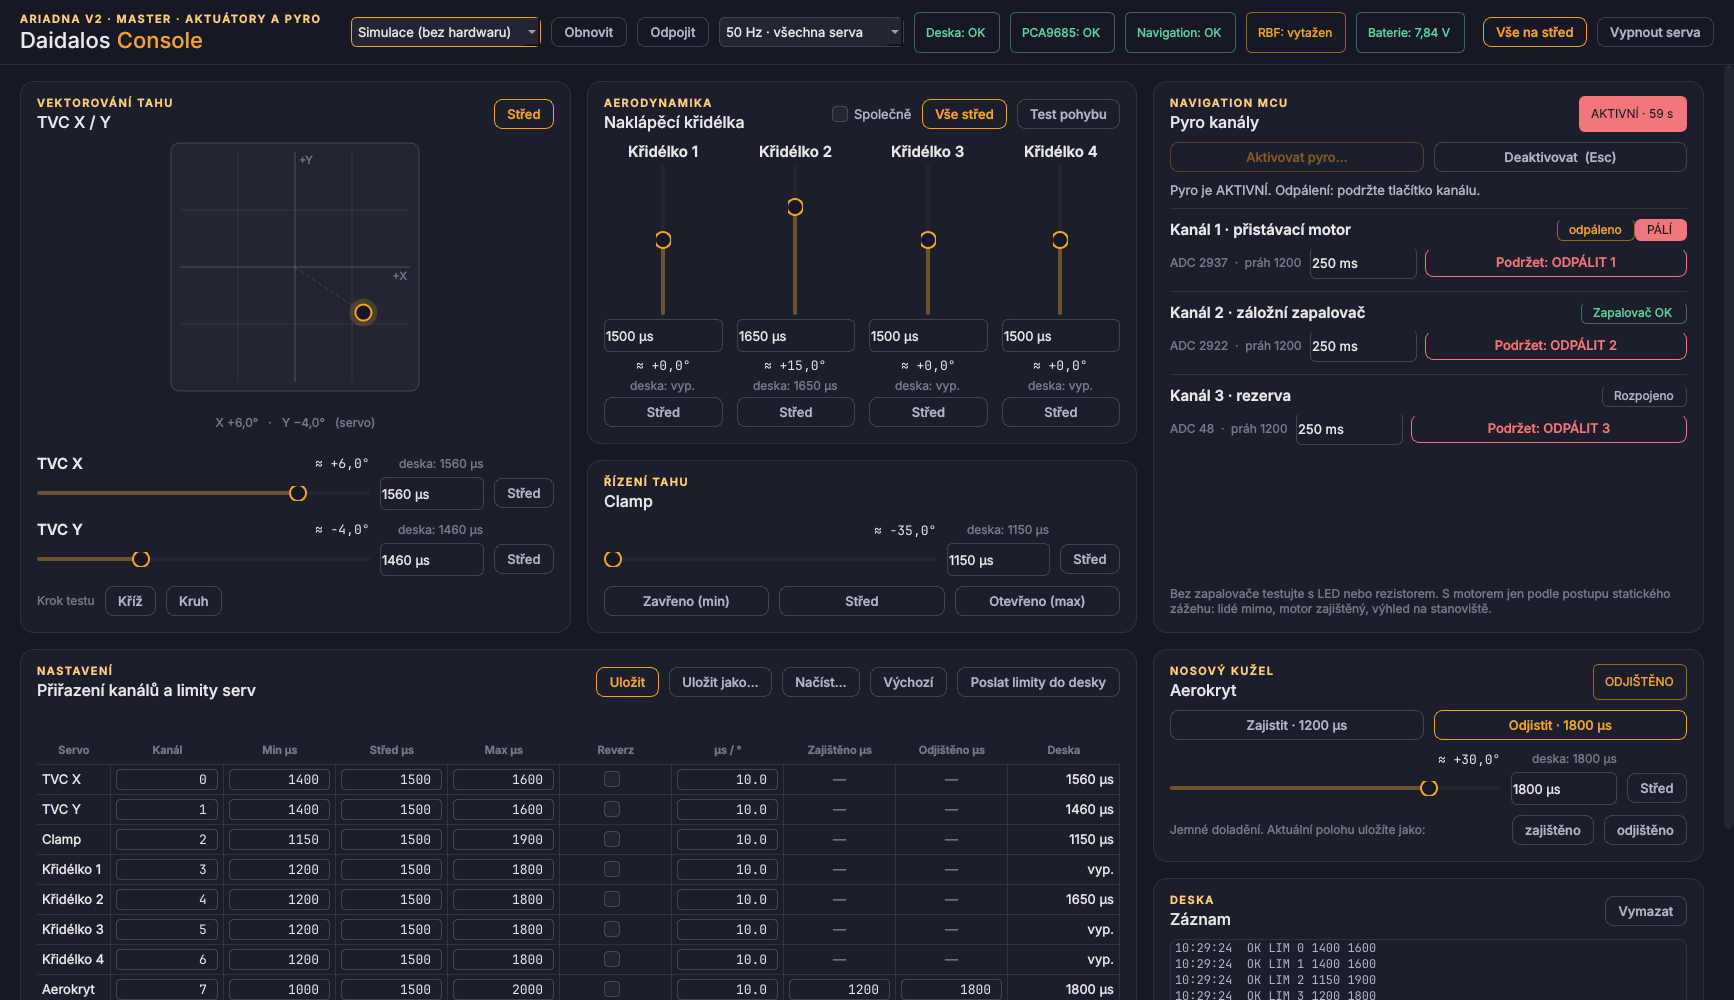
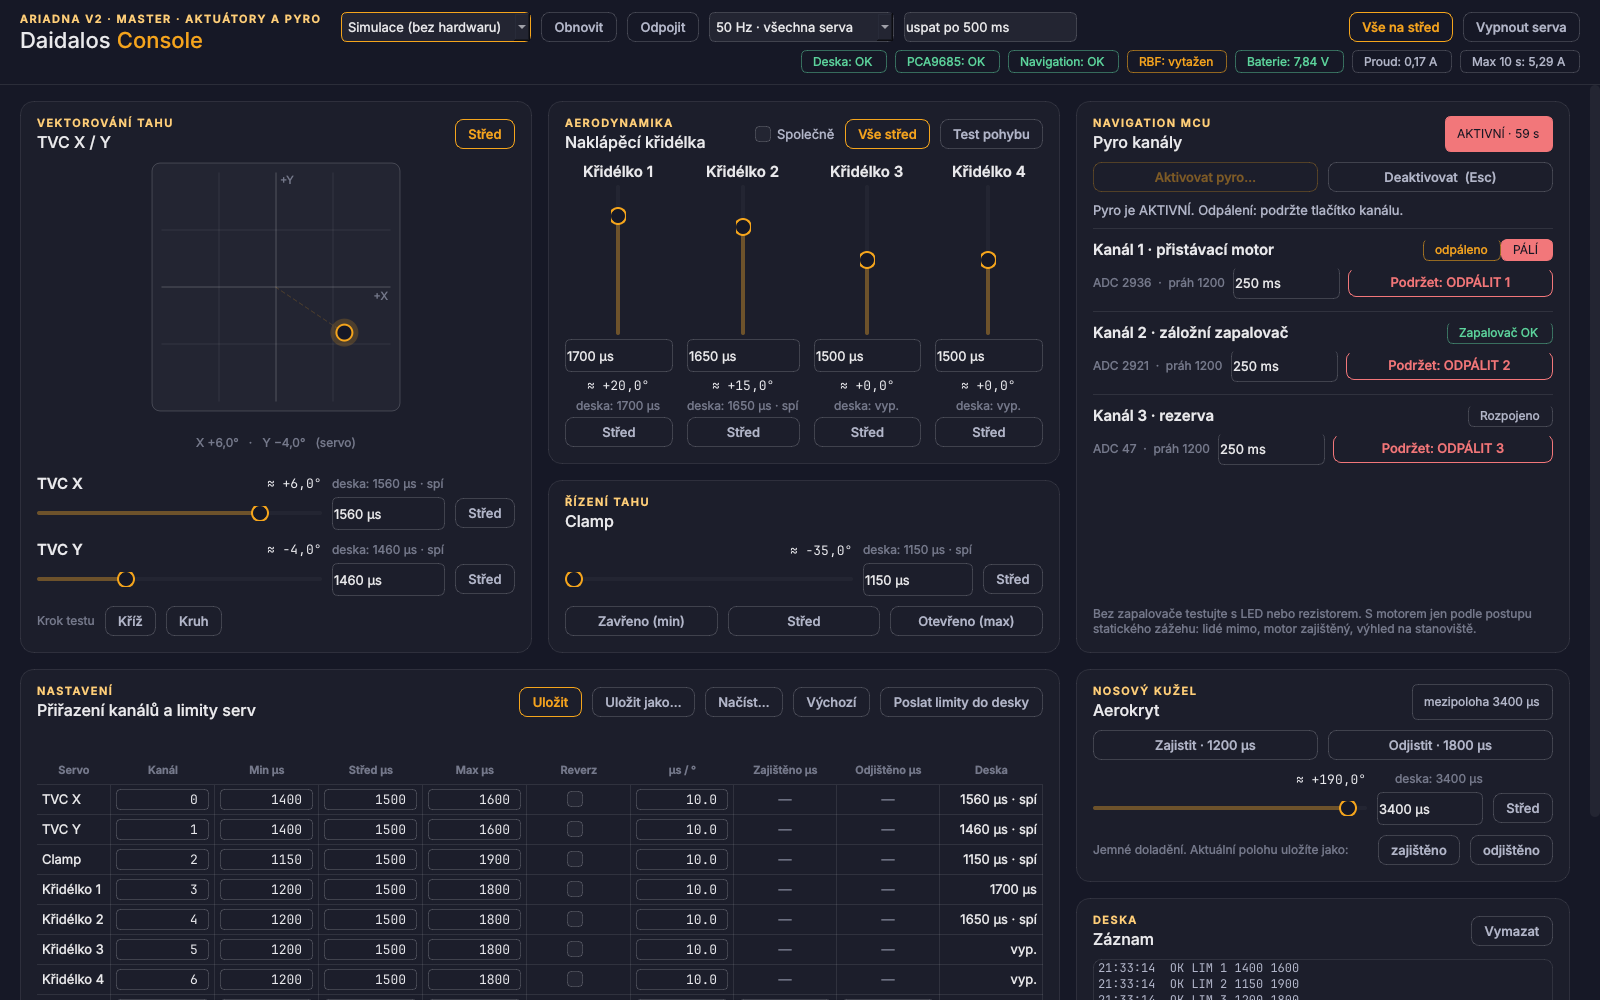
Actuator Console: idle-off servos, 3500 us pulses, current draw
- A channel whose command has not changed for 500 ms (IDLE <ms>, 0 =
  never, set from the GUI's top bar and saved in the config) stops its
  pulse; the next SET wakes it. Telemetry reports which channels are
  actually pulsing, and the GUI marks sleeping ones "spí".
- Pulse window widened to 500..3500 us for wide-range servos. The board
  keeps a pulse at least 200 us shorter than the PWM period, so 333/339 Hz
  cap it near 2800/2750 us; the GUI warns which servos that cuts.
- ACS712 current sampled every ms: 100 ms mean and 10 s peak in the
  telemetry, shown in the GUI's top bar.

Claude-Session: https://claude.ai/code/session_01Dwbo7751Jxhhc5P4edmqFL

diff --git a/Ariadna_V2/Examples/Actuator_Console/gui/actuator_gui.py b/Ariadna_V2/Examples/Actuator_Console/gui/actuator_gui.py
@@ -46,7 +46,8 @@ APP_NAME = "Daidalos · Aktuátory a pyro"
 HERE = os.path.dirname(os.path.abspath(__file__))
 DEFAULT_CONFIG = os.path.join(HERE, "actuator_config.json")
 N_CH = 16
-ABS_US_MIN, ABS_US_MAX = 500, 2500
+ABS_US_MIN, ABS_US_MAX = 500, 3500   # same as the board; wide-range servos go to 3500
+PERIOD_GAP_US = 200                    # the board keeps a pulse this far below the PWM period
 
 # ---------------------------------------------------------------------------
 #  VoltinoLabs design tokens (artifact "VoltinoLabs", tokens.json)
@@ -247,18 +248,20 @@ class AppConfig:
     pwm_hz: int = 50
     pulse_ms: list[int] = field(default_factory=lambda: [250, 250, 250])
     port: str = ""
+    idle_ms: int = 500          # servo pulse stops after this long without a change, 0 = never
 
     def servo(self, key: str) -> ServoCfg:
         return next(s for s in self.servos if s.key == key)
 
     def to_json(self) -> dict:
-        return {"version": 1, "pwm_hz": self.pwm_hz, "pulse_ms": self.pulse_ms,
+        return {"version": 1, "pwm_hz": self.pwm_hz, "pulse_ms": self.pulse_ms, "idle_ms": self.idle_ms,
                 "port": self.port, "servos": [asdict(s) for s in self.servos]}
 
     @classmethod
     def from_json(cls, d: dict) -> "AppConfig":
         cfg = cls()
         cfg.pwm_hz = int(d.get("pwm_hz", 50))
+        cfg.idle_ms = max(0, min(60000, int(d.get("idle_ms", 500))))
         pm = list(d.get("pulse_ms", []))
         cfg.pulse_ms = [max(20, min(1000, int(x))) for x in (pm + [250, 250, 250])[:3]]
         cfg.port = d.get("port", "")
@@ -310,6 +313,13 @@ class SimBoard:
         self.last_rx = time.monotonic()
         self.next_tlm = 0.0
         self.rbf = 1
+        self.idle_ms = 500
+        self.moved = [0.0] * N_CH
+        self.awake = [False] * N_CH
+        self.amps_hist: list[tuple[float, float]] = []
+
+    def max_us(self) -> int:
+        return int(min(ABS_US_MAX, 1e6 / self.hz - PERIOD_GAP_US))
 
     def ms(self) -> int:
         return int((time.monotonic() - self.t0) * 1000)
@@ -330,7 +340,11 @@ class SimBoard:
             self.q.put("# simulated board (--demo): no hardware is driven")
         elif c == "SET" and len(p) == 3:
             ch = int(p[1])
-            self.us[ch] = max(self.lo[ch], min(self.hi[ch], int(p[2])))
+            self.us[ch] = max(self.lo[ch], min(self.hi[ch], self.max_us(), int(p[2])))
+            self.awake[ch], self.moved[ch] = True, now
+        elif c == "IDLE" and len(p) == 2:
+            self.idle_ms = max(0, min(60000, int(p[1])))
+            self.q.put(f"OK IDLE {self.idle_ms}")
         elif c == "OFF":
             if p[1].upper().startswith("A"):
                 self.us = [0] * N_CH
@@ -345,6 +359,7 @@ class SimBoard:
             self.q.put(f"OK LIM {ch} {lo} {hi}")
         elif c == "PWM":
             self.hz = int(p[1])
+            self.us = [min(u, self.max_us()) for u in self.us]
             self.q.put(f"OK PWM {self.hz}")
         elif c == "ARM":
             if not self.rbf:
@@ -375,12 +390,25 @@ class SimBoard:
         if self.armed_until and now - self.last_rx > 1.5:
             self.armed_until, self.fire_ch = 0, -1
             self.q.put("# GUI silent - pyros disarmed, servos hold")
+        on = 0
+        moving = 0
+        for ch in range(N_CH):
+            if self.awake[ch] and self.us[ch] and self.idle_ms and now - self.moved[ch] >= self.idle_ms / 1000:
+                self.awake[ch] = False
+            if self.awake[ch] and self.us[ch]:
+                on |= 1 << ch
+                moving += now - self.moved[ch] < 0.3
         if now >= self.next_tlm:
             self.next_tlm = now + 0.1
+            # a made-up servo rail: 0.15 A idle board, 0.12 A per held servo, 0.9 A per moving one
+            amps = 0.15 + 0.12 * bin(on).count("1") + 0.9 * moving + 0.02 * ((now * 53) % 3)
+            self.amps_hist = [(tt, a) for tt, a in self.amps_hist if now - tt < 10] + [(now, amps)]
             armed = 1 if (self.armed_until > now or self.fire_ch >= 0) else 0
             left = max(0.0, self.armed_until - now) if armed else 0.0
             noise = int((now * 37) % 9)
             t = {"t": self.ms(), "pca": 1, "hz": self.hz, "rbf": self.rbf, "vbat": 7.84,
+                 "i": round(amps, 2), "imax": round(max(a for _, a in self.amps_hist), 2),
+                 "idle": self.idle_ms, "maxus": self.max_us(), "on": on,
                  "us": self.us, "nav": 1, "arm": armed, "arm_left": round(left, 1),
                  "cont": [2930 + noise, 2915 + noise, 41 + noise], "thr": 1200, "cmask": 3,
                  "fired": self.fired, "firing": (1 << self.fire_ch) if self.fire_ch >= 0 else 0,
@@ -788,8 +816,13 @@ class AxisControl(QtWidgets.QWidget):
     def _readout(self, us: int) -> None:
         self.deg.setText(f"≈ {cz(self.cfg.deg(us))}°")
 
-    def set_board(self, us: int | None) -> None:
-        txt = "deska: —" if us is None else ("deska: vyp." if us == 0 else f"deska: {us} µs")
+    def set_board(self, us: int | None, awake: bool = True) -> None:
+        if us is None:
+            txt = "deska: —"
+        elif us == 0:
+            txt = "deska: vyp."
+        else:
+            txt = f"deska: {us} µs" + ("" if awake else " · spí")
         if self.board.text() != txt:
             self.board.setText(txt)
 
@@ -942,6 +975,7 @@ class MainWindow(QtWidgets.QMainWindow):
             for k, v in asdict(s_new).items():
                 setattr(s_old, k, v)
         self.cfg.pwm_hz, self.cfg.pulse_ms = new.pwm_hz, new.pulse_ms
+        self.idle_spin.setValue(new.idle_ms)
         self._fill_config_table()
         for s in self.cfg.servos:
             self._cfg_changed(s, send_pos=False)
@@ -954,8 +988,7 @@ class MainWindow(QtWidgets.QMainWindow):
     def _build_header(self) -> QtWidgets.QWidget:
         h = QtWidgets.QFrame()
         h.setObjectName("header")
-        lay = QtWidgets.QHBoxLayout(h)
-        lay.setContentsMargins(20, 12, 20, 12)
+        lay = QtWidgets.QHBoxLayout()
         lay.setSpacing(10)
         brand = QtWidgets.QVBoxLayout()
         brand.setSpacing(0)
@@ -966,8 +999,8 @@ class MainWindow(QtWidgets.QMainWindow):
         word.addWidget(label(" Console", "wordAccent"))
         word.addStretch(1)
         brand.addLayout(word)
-        lay.addLayout(brand)
-        lay.addSpacing(18)
+        brand.addStretch(1)
+        brand_box = brand
 
         self.port_box = QtWidgets.QComboBox()
         self.port_box.setMinimumWidth(190)
@@ -990,21 +1023,53 @@ class MainWindow(QtWidgets.QMainWindow):
         self.pwm_box.currentIndexChanged.connect(self._pwm_changed)
         lay.addWidget(self.pwm_box)
 
+        self.idle_spin = QtWidgets.QSpinBox()
+        self.idle_spin.setRange(0, 10000)
+        self.idle_spin.setSingleStep(100)
+        self.idle_spin.setSuffix(" ms")
+        self.idle_spin.setPrefix("uspat po ")
+        self.idle_spin.setSpecialValueText("uspávání vyp.")
+        self.idle_spin.setKeyboardTracking(False)
+        self.idle_spin.setValue(self.cfg.idle_ms)
+        self.idle_spin.setMinimumWidth(150)
+        self.idle_spin.setToolTip("Servo, jehož poloha se nezmění déle než tuto dobu, dostane vypnutý pulz\n"
+                                  "(nebzučí, nebere proud). Dalším pohybem se samo zapne. 0 = nikdy.")
+        self.idle_spin.valueChanged.connect(self._idle_changed)
+        lay.addWidget(self.idle_spin)
+
         lay.addStretch(1)
-        self.chip_board = chip("Deska")
-        self.chip_pca = chip("PCA9685")
-        self.chip_nav = chip("Navigation")
-        self.chip_rbf = chip("RBF")
-        self.chip_bat = chip("Baterie")
-        for c_ in (self.chip_board, self.chip_pca, self.chip_nav, self.chip_rbf, self.chip_bat):
-            lay.addWidget(c_)
-        lay.addSpacing(8)
         self.all_center_btn = button("Vše na střed", "primary", "Všechna serva na nastavený střed (zapne výstupy)")
         self.all_center_btn.clicked.connect(self.all_center)
         lay.addWidget(self.all_center_btn)
         self.all_off_btn = button("Vypnout serva", tip="Zastaví pulzy na všech kanálech (serva povolí)")
         self.all_off_btn.clicked.connect(self.all_off)
         lay.addWidget(self.all_off_btn)
+
+        # second line: board status
+        self.chip_board = chip("Deska")
+        self.chip_pca = chip("PCA9685")
+        self.chip_nav = chip("Navigation")
+        self.chip_rbf = chip("RBF")
+        self.chip_bat = chip("Baterie")
+        self.chip_amp = chip("Proud")
+        self.chip_amp.setToolTip("Odběr z ACS712: průměr za posledních 100 ms")
+        self.chip_ampmax = chip("Max 10 s")
+        self.chip_ampmax.setToolTip("Nejvyšší odběr za posledních 10 s (filtrováno ~4 ms)")
+        status = QtWidgets.QHBoxLayout()
+        status.setSpacing(8)
+        status.addStretch(1)
+        for c_ in (self.chip_board, self.chip_pca, self.chip_nav, self.chip_rbf, self.chip_bat,
+                   self.chip_amp, self.chip_ampmax):
+            status.addWidget(c_)
+        right = QtWidgets.QVBoxLayout()
+        right.setSpacing(8)
+        right.addLayout(lay)
+        right.addLayout(status)
+        outer = QtWidgets.QHBoxLayout(h)
+        outer.setContentsMargins(20, 12, 20, 12)
+        outer.setSpacing(18)
+        outer.addLayout(brand_box)
+        outer.addLayout(right, 1)
         return h
 
     # ------------------------------------------------------------------ TVC
@@ -1427,6 +1492,12 @@ class MainWindow(QtWidgets.QMainWindow):
             self.cfg_warn.setStyleSheet(f"color: {C['danger']};")
         else:
             self.cfg_warn.setText("")
+        maxus = self.tlm.get("maxus")
+        over = [s.name for s in self.cfg.servos if maxus and s.max_us > maxus]
+        if over and not dup:
+            self.cfg_warn.setText(f"Při {self.tlm.get('hz')} Hz deska pustí nejvýš {maxus} µs "
+                                  f"(perioda PWM) — omezí: {', '.join(over)}. Pro dlouhé pulzy dejte 50 Hz.")
+            self.cfg_warn.setStyleSheet(f"color: {C['accent']};")
 
     def _send_lim(self, s: ServoCfg) -> None:
         # Two servos on one channel (a mistake, flagged in the table) get the
@@ -1506,10 +1577,17 @@ class MainWindow(QtWidgets.QMainWindow):
             self.cfg.port = self.port_box.currentData() or ""
             self.link.send("HELLO")
             self.link.send(f"PWM {self.pwm_box.currentData()}")
+            self.link.send(f"IDLE {self.idle_spin.value()}")
             self.send_limits()
             self.log("# serva zůstávají vypnutá, dokud jimi nepohnete nebo nedáte „Vše na střed“")
         self._update_controls_enabled()
         self._refresh_status()
+
+    def _idle_changed(self, v: int) -> None:
+        self.cfg.idle_ms = v
+        self._dirty = True
+        if self.link.is_open:
+            self.link.send(f"IDLE {v}")
 
     def _pwm_changed(self) -> None:
         hz = self.pwm_box.currentData()
@@ -1578,12 +1656,16 @@ class MainWindow(QtWidgets.QMainWindow):
         us = t.get("us") or []
         for r, s in enumerate(self.cfg.servos):
             v = us[s.ch] if s.ch < len(us) else None
-            self.axes[s.key].set_board(v)
+            awake = bool(t.get("on", 0xFFFF) & (1 << s.ch))
+            self.axes[s.key].set_board(v, awake)
             it = self.table.item(r, 9)
             if it is not None:
-                txt = "—" if v is None else ("vyp." if v == 0 else f"{v} µs")
+                txt = "—" if v is None else ("vyp." if v == 0 else f"{v} µs" + ("" if awake else " · spí"))
                 if it.text() != txt:
                     it.setText(txt)
+        if t.get("maxus") != getattr(self, "_last_maxus", None):
+            self._last_maxus = t.get("maxus")
+            self._check_conflicts()
         cont = t.get("cont") or [0, 0, 0]
         cmask, fired, firing = t.get("cmask", 0), t.get("fired", 0), t.get("firing", 0)
         nav = bool(t.get("nav"))
@@ -1622,9 +1704,14 @@ class MainWindow(QtWidgets.QMainWindow):
             v = float(t.get("vbat", 0))
             set_chip(self.chip_bat, f"Baterie: {cz(v, 2, sign=False)} V",
                      "" if v < 0.5 else ("bad" if v < 7.0 else "ok"))
+            if "i" in t:
+                set_chip(self.chip_amp, f"Proud: {cz(float(t['i']), 2, sign=False)} A", "")
+                set_chip(self.chip_ampmax, f"Max 10 s: {cz(float(t.get('imax', 0)), 2, sign=False)} A", "")
         else:
             set_chip(self.chip_rbf, "RBF: —", "")
             set_chip(self.chip_bat, "Baterie: —", "")
+            set_chip(self.chip_amp, "Proud: —", "")
+            set_chip(self.chip_ampmax, "Max 10 s: —", "")
 
         armed = bool(t.get("arm"))
         if armed:

diff --git a/test/example_stub/Arduino.h b/test/example_stub/Arduino.h
@@ -33,6 +33,7 @@ inline int      digitalRead(uint8_t) { return HIGH; }
 inline int      analogRead(uint8_t) { return 0; }
 inline void     analogReadResolution(int) {}
 inline uint32_t millis(void) { return 0; }
+inline uint32_t micros(void) { return 0; }
 inline void     delay(uint32_t) {}
 inline void     tone(uint8_t, uint32_t) {}
 inline void     noTone(uint8_t) {}

diff --git a/Ariadna_V2/Examples/Actuator_Console/README.md b/Ariadna_V2/Examples/Actuator_Console/README.md
@@ -50,7 +50,12 @@ it. On macOS / Linux the commands are the same, with `/` in the path and
 | **Záznam** | everything the board says except telemetry, and a line to type raw commands |
 
 Every servo widget also shows **what the board is actually putting out**
-(`deska: 1560 µs` / `vyp.`), taken from the telemetry, not from the GUI's own idea.
+(`deska: 1560 µs`, `· spí` when idled off, `vyp.`), taken from the telemetry, not
+from the GUI's own idea.
+
+The top bar shows, next to the board status, the **current draw** from the ACS712
+(mean over the last 100 ms) and the **peak over the last 10 s**, and has the
+**uspat po … ms** setting (below).
 
 ## Safety
 
@@ -63,7 +68,19 @@ flagged in red, and the board gets the intersection of their windows. The defaul
 are conservative: TVC ±100 µs (the flight code's ±10° at 10 µs/°), clamp 1150–1900 µs
 (`CLAMP_US_CLOSED` / `CLAMP_US_OPEN`), fins 1200–1800 µs, aerocover 1000–2000 µs with
 1200 / 1800 µs as locked / unlocked. **Measure your linkages and set the real limits
-before the first move.** If the GUI goes away, servos hold their last pulse.
+before the first move.** If the GUI goes away, servos hold their last pulse (until
+the idle-off below stops it).
+
+**Idle off.** A servo whose commanded position has not changed for 500 ms
+(*uspat po … ms* in the top bar, saved in the config, 0 = never) gets its pulse
+stopped, so it does not buzz or draw holding current. Only that channel stops;
+the next move turns it back on. A servo under load will be pushed back while
+it sleeps, so set 0 when something has to be held.
+
+**Wide-range servos.** Pulses go up to **3500 µs** (min/max in the table accept
+500–3500). A pulse cannot be longer than the PWM period, so the board keeps it at
+least 200 µs shorter: at 50 Hz the full 3500 µs is available, at 333/339 Hz the
+limit is about 2800/2750 µs and the GUI says which servos it cuts.
 
 PWM is 50 Hz by default (any servo). 333 / 339 Hz is for digital servos only and is
 global to all sixteen channels.
@@ -111,12 +128,14 @@ flash amber.
 | `LIM <ch> <min> <max>` | pulse window of channel 0–15, µs |
 | `SET <ch> <us>` | pulse, clamped to the window (no reply, the GUI streams these) |
 | `OFF <ch>` / `OFF ALL` | no pulse |
+| `IDLE <ms>` | idle-off time, 0 = never (default 500) |
 | `ARM` / `DISARM` | pyro arming on the Navigation MCU |
 | `FIRE <ch> <ms>` | pyro channel 1–3 |
 | `HB` | heartbeat (any line counts) |
 | `STATUS` | telemetry now |
 
-Every 100 ms the board prints `T {json}` with `pca`, `hz`, `rbf`, `vbat`, `us[16]`,
+Every 100 ms the board prints `T {json}` with `pca`, `hz`, `rbf`, `vbat`, `i` and
+`imax` (A), `idle`, `maxus`, `on` (bitmask of channels actually pulsing), `us[16]`,
 `nav`, `arm`, `arm_left`, `cont[3]`, `thr`, `cmask`, `fired`, `firing`, `rej`.
 Replies are `OK …` / `ERR …`; log lines start with `#`. Any serial terminal works
 too, so the GUI is optional.
